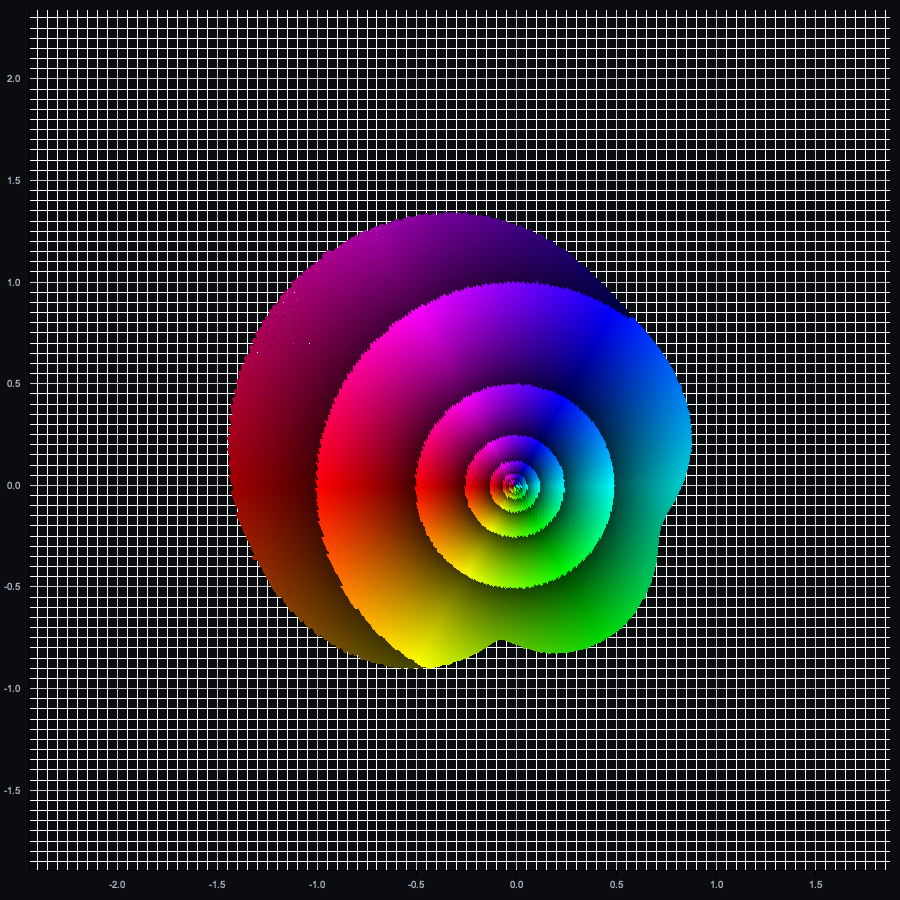
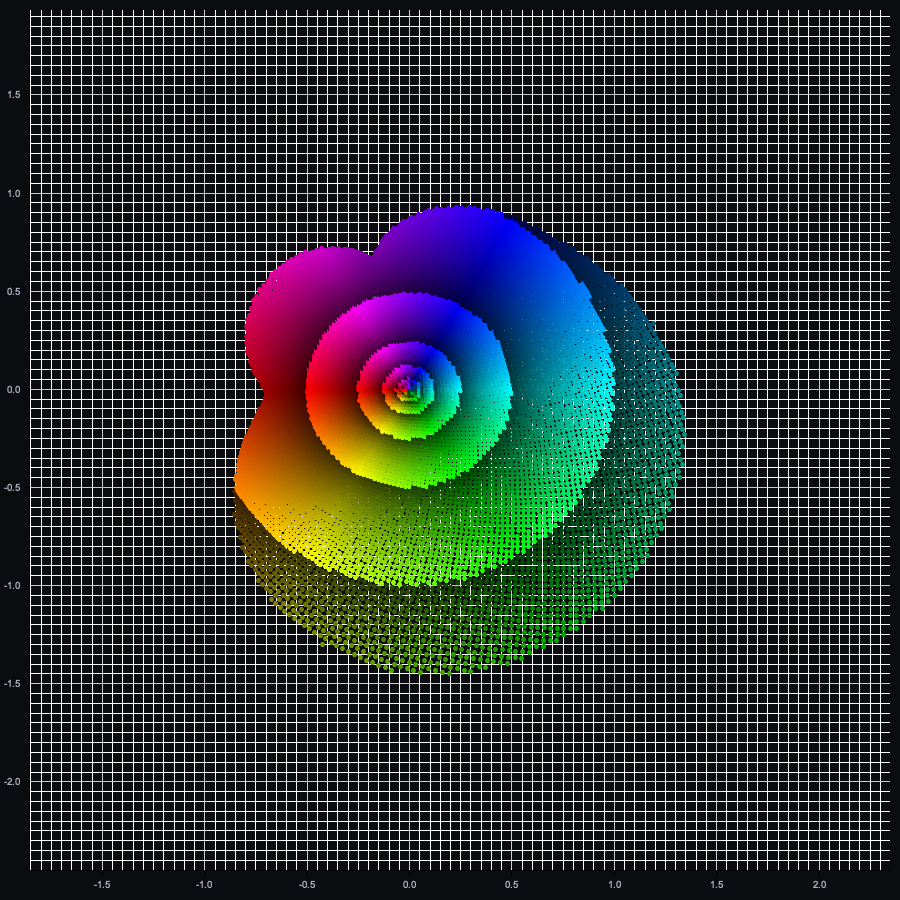
removed tests from main

diff --git a/src/main.rs b/src/main.rs
@@ -3,92 +3,3 @@
 async fn main() -> anyhow::Result<()> {
     landau::ui::run_server().await
 }
-#[cfg(test)]
-mod tests {
-    use landau::corollary_2::calculate_epsilon;
-    use landau::covering_grids::{covering_grid_bitmap, unit_disk_n};
-    use landau::dyadic::{ComplexDyadic, Dyadic};
-    use landau::edt::landau_l_via_edt_from_bitmap;
-    use landau::holomorphic::{BoundingSequence, ComplexFunction, ExpansionCoefficients};
-    use landau::psi::{m_vec, psi_infinity, t_vector};
-
-    #[test]
-    fn test_addition_dyadic() {
-        let result = Dyadic::new(1, 1) + Dyadic::new(1, 1);
-        assert_eq!(result, Dyadic::new(2, 1));
-    }
-
-    #[test]
-    fn test_multiplication_dyadic() {
-        let result = Dyadic::new(5, 2) * Dyadic::new(3, 1);
-        assert_eq!(result, Dyadic::new(15, 3));
-    }
-
-    #[test]
-    fn test_addition_complex_dyadic() {
-        let result = ComplexDyadic::new(Dyadic::new(1, 0), Dyadic::new(2, 0))
-            + ComplexDyadic::new(Dyadic::new(2, 0), Dyadic::new(3, 0));
-        assert_eq!(
-            result,
-            ComplexDyadic::new(Dyadic::new(3, 0), Dyadic::new(5, 0))
-        );
-    }
-
-    #[test]
-    fn test_multiplication_complex_dyadic() {
-        let result = ComplexDyadic::new(Dyadic::new(1, 2), Dyadic::new(2, 0))
-            * ComplexDyadic::new(Dyadic::new(2, -1), Dyadic::new(3, 0));
-        assert_eq!(
-            result,
-            ComplexDyadic::new(Dyadic::new(-2, 0), Dyadic::new(14, 0))
-        );
-    }
-
-    #[test]
-    fn test_eval() {
-        let x = ComplexDyadic::new(Dyadic::new(1, 0), Dyadic::zero());
-        let f = ComplexFunction::new(
-            BoundingSequence::new(vec![Dyadic::new(2, 0), Dyadic::new(2, 0)]),
-            ExpansionCoefficients::new(vec![x, x, x]),
-        );
-        assert_eq!(
-            f.eval(&ComplexDyadic::new(
-                Dyadic::new(1, 0),
-                Dyadic::zero()
-            )),
-            ComplexDyadic::new(Dyadic::new(3, 0), Dyadic::zero())
-        );
-    }
-    #[test]
-    fn test_epsilon() {
-        let r = 0.95;
-        let r_hat = Dyadic::new(127, -7);
-        println!("{}", r_hat.to_f64());
-        let rho = Dyadic::new(1, -4);
-        let eps = calculate_epsilon(r, r_hat, rho);
-        assert_eq!(eps, Dyadic::new(1, -37));
-    }
-    #[test]
-    fn test_approx() {
-        let m_seq = m_vec(5);
-        let delta = Dyadic::new(1, -7);
-        let t_seq = t_vector(100);
-        let test_word = [1, 2, 3, 4, 1, 1];
-        let coeffs = psi_infinity(&m_seq, &t_seq, &test_word);
-        let fprime = ComplexFunction::new(
-            BoundingSequence::new(m_seq),
-            ExpansionCoefficients::new(coeffs),
-        );
-        let f = fprime.antiderivative();
-
-        let domain = unit_disk_n(-6);
-        let mut img: Vec<ComplexDyadic> = Vec::with_capacity(domain.len());
-        for &z in domain.iter() {
-            img.push(f.eval(&z));
-        }
-        let eps = delta * Dyadic::new(1, 2);
-        let grid_bitmap = covering_grid_bitmap(&img, eps, delta);
-        let l_val = landau_l_via_edt_from_bitmap(&grid_bitmap, delta);
-        assert_eq!(l_val, 0.9677649931279152);
-    }
-}

diff --git a/src/plot.rs b/src/plot.rs
@@ -7,36 +7,6 @@ use crate::covering_grids::extreme_points;
 use crate::dyadic::ComplexDyadic;
 
 
-
-// pub fn plot_set(
-//     points: &Vec<ComplexDyadic>,
-//     filename: &str,
-// ) -> Result<(), Box<dyn std::error::Error>> {
-//     let root = BitMapBackend::new(filename, (600, 600)).into_drawing_area();
-//     root.fill(&WHITE)?;
-//     let extremes = extreme_points(points).unwrap();
-//     let x_min = &extremes[0].re.to_f64() - 1.0;
-//     let x_max = &extremes[1].re.to_f64() + 1.0;
-//     let y_min = &extremes[2].im.to_f64() - 1.0;
-//     let y_max = &extremes[3].im.to_f64() + 1.0;
-//     let mut chart = ChartBuilder::on(&root)
-//         .caption("Complex Dyadic Points", ("sans-serif", 25))
-//         .margin(20)
-//         .x_label_area_size(30)
-//         .y_label_area_size(30)
-//         .build_cartesian_2d(x_min..x_max, y_min..y_max)?;
-
-//     chart.configure_mesh().draw()?;
-
-//     chart.draw_series(points.iter().map(|z| {
-//         let (x, y) = (z.re.to_f64(), z.im.to_f64());
-//         Circle::new((x, y), 2, RED.filled())
-//     }))?;
-
-//     println!("Plot saved to '{}'", filename);
-//     Ok(())
-// }
-
 pub fn plot_set(
     points: &Vec<ComplexDyadic>,
     filename: &str,
@@ -146,3 +116,35 @@ fn color_from_complex_rgb(x: f64, y: f64) -> RGBColor {
     let v = 0.25 + 0.75 * stripes; // prevent over-dark regions
     hsv_to_rgb_u8(hue, 1.0, v)
 }
+
+
+
+
+// pub fn plot_set(
+//     points: &Vec<ComplexDyadic>,
+//     filename: &str,
+// ) -> Result<(), Box<dyn std::error::Error>> {
+//     let root = BitMapBackend::new(filename, (600, 600)).into_drawing_area();
+//     root.fill(&WHITE)?;
+//     let extremes = extreme_points(points).unwrap();
+//     let x_min = &extremes[0].re.to_f64() - 1.0;
+//     let x_max = &extremes[1].re.to_f64() + 1.0;
+//     let y_min = &extremes[2].im.to_f64() - 1.0;
+//     let y_max = &extremes[3].im.to_f64() + 1.0;
+//     let mut chart = ChartBuilder::on(&root)
+//         .caption("Complex Dyadic Points", ("sans-serif", 25))
+//         .margin(20)
+//         .x_label_area_size(30)
+//         .y_label_area_size(30)
+//         .build_cartesian_2d(x_min..x_max, y_min..y_max)?;
+
+//     chart.configure_mesh().draw()?;
+
+//     chart.draw_series(points.iter().map(|z| {
+//         let (x, y) = (z.re.to_f64(), z.im.to_f64());
+//         Circle::new((x, y), 2, RED.filled())
+//     }))?;
+
+//     println!("Plot saved to '{}'", filename);
+//     Ok(())
+// }

diff --git a/tests/eval_tests.rs b/tests/eval_tests.rs
@@ -1,0 +1,40 @@
+use landau::corollary_2::calculate_epsilon;
+use landau::covering_grids::{covering_grid_bitmap, unit_disk_n};
+use landau::holomorphic::{BoundingSequence, ComplexFunction, ExpansionCoefficients};
+use landau::dyadic::{ComplexDyadic, Dyadic};
+use landau::edt::landau_l_via_edt_from_bitmap;
+use landau::psi::{m_vec, psi_infinity, t_vector};
+
+#[test]
+    fn test_epsilon() {
+        let r = 0.95;
+        let r_hat = Dyadic::new(127, -7);
+        println!("{}", r_hat.to_f64());
+        let rho = Dyadic::new(1, -4);
+        let eps = calculate_epsilon(r, r_hat, rho);
+        assert_eq!(eps, Dyadic::new(1, -37));
+    }
+
+#[test]
+fn test_approx() {
+    let m_seq = m_vec(5);
+    let delta = Dyadic::new(1, -7);
+    let t_seq = t_vector(100);
+    let test_word = [1, 2, 3, 4, 1, 1];
+    let coeffs = psi_infinity(&m_seq, &t_seq, &test_word);
+    let fprime = ComplexFunction::new(
+        BoundingSequence::new(m_seq),
+        ExpansionCoefficients::new(coeffs),
+    );
+    let f = fprime.antiderivative();
+
+    let domain = unit_disk_n(-6);
+    let mut img: Vec<ComplexDyadic> = Vec::with_capacity(domain.len());
+    for &z in domain.iter() {
+        img.push(f.eval(&z));
+    }
+    let eps = delta * Dyadic::new(1, 2);
+    let grid_bitmap = covering_grid_bitmap(&img, eps, delta);
+    let l_val = landau_l_via_edt_from_bitmap(&grid_bitmap, delta);
+    assert_eq!(l_val, 0.9677649931279152);
+}

diff --git a/src/ui.rs b/src/ui.rs
@@ -204,7 +204,7 @@ async fn random_page() -> Html<String> {
         </div>
         <div>
           <label>Disk accuracy n (step = 2<sup>−n</sup>)</label>
-          <input type="number" name="acc_n" min="6" max="18" value="7" required />
+          <input type="number" name="acc_n" min="6" max="18" value="6" required />
         </div>
       </div>
       <p><button type="submit">Run random search</button></p>
